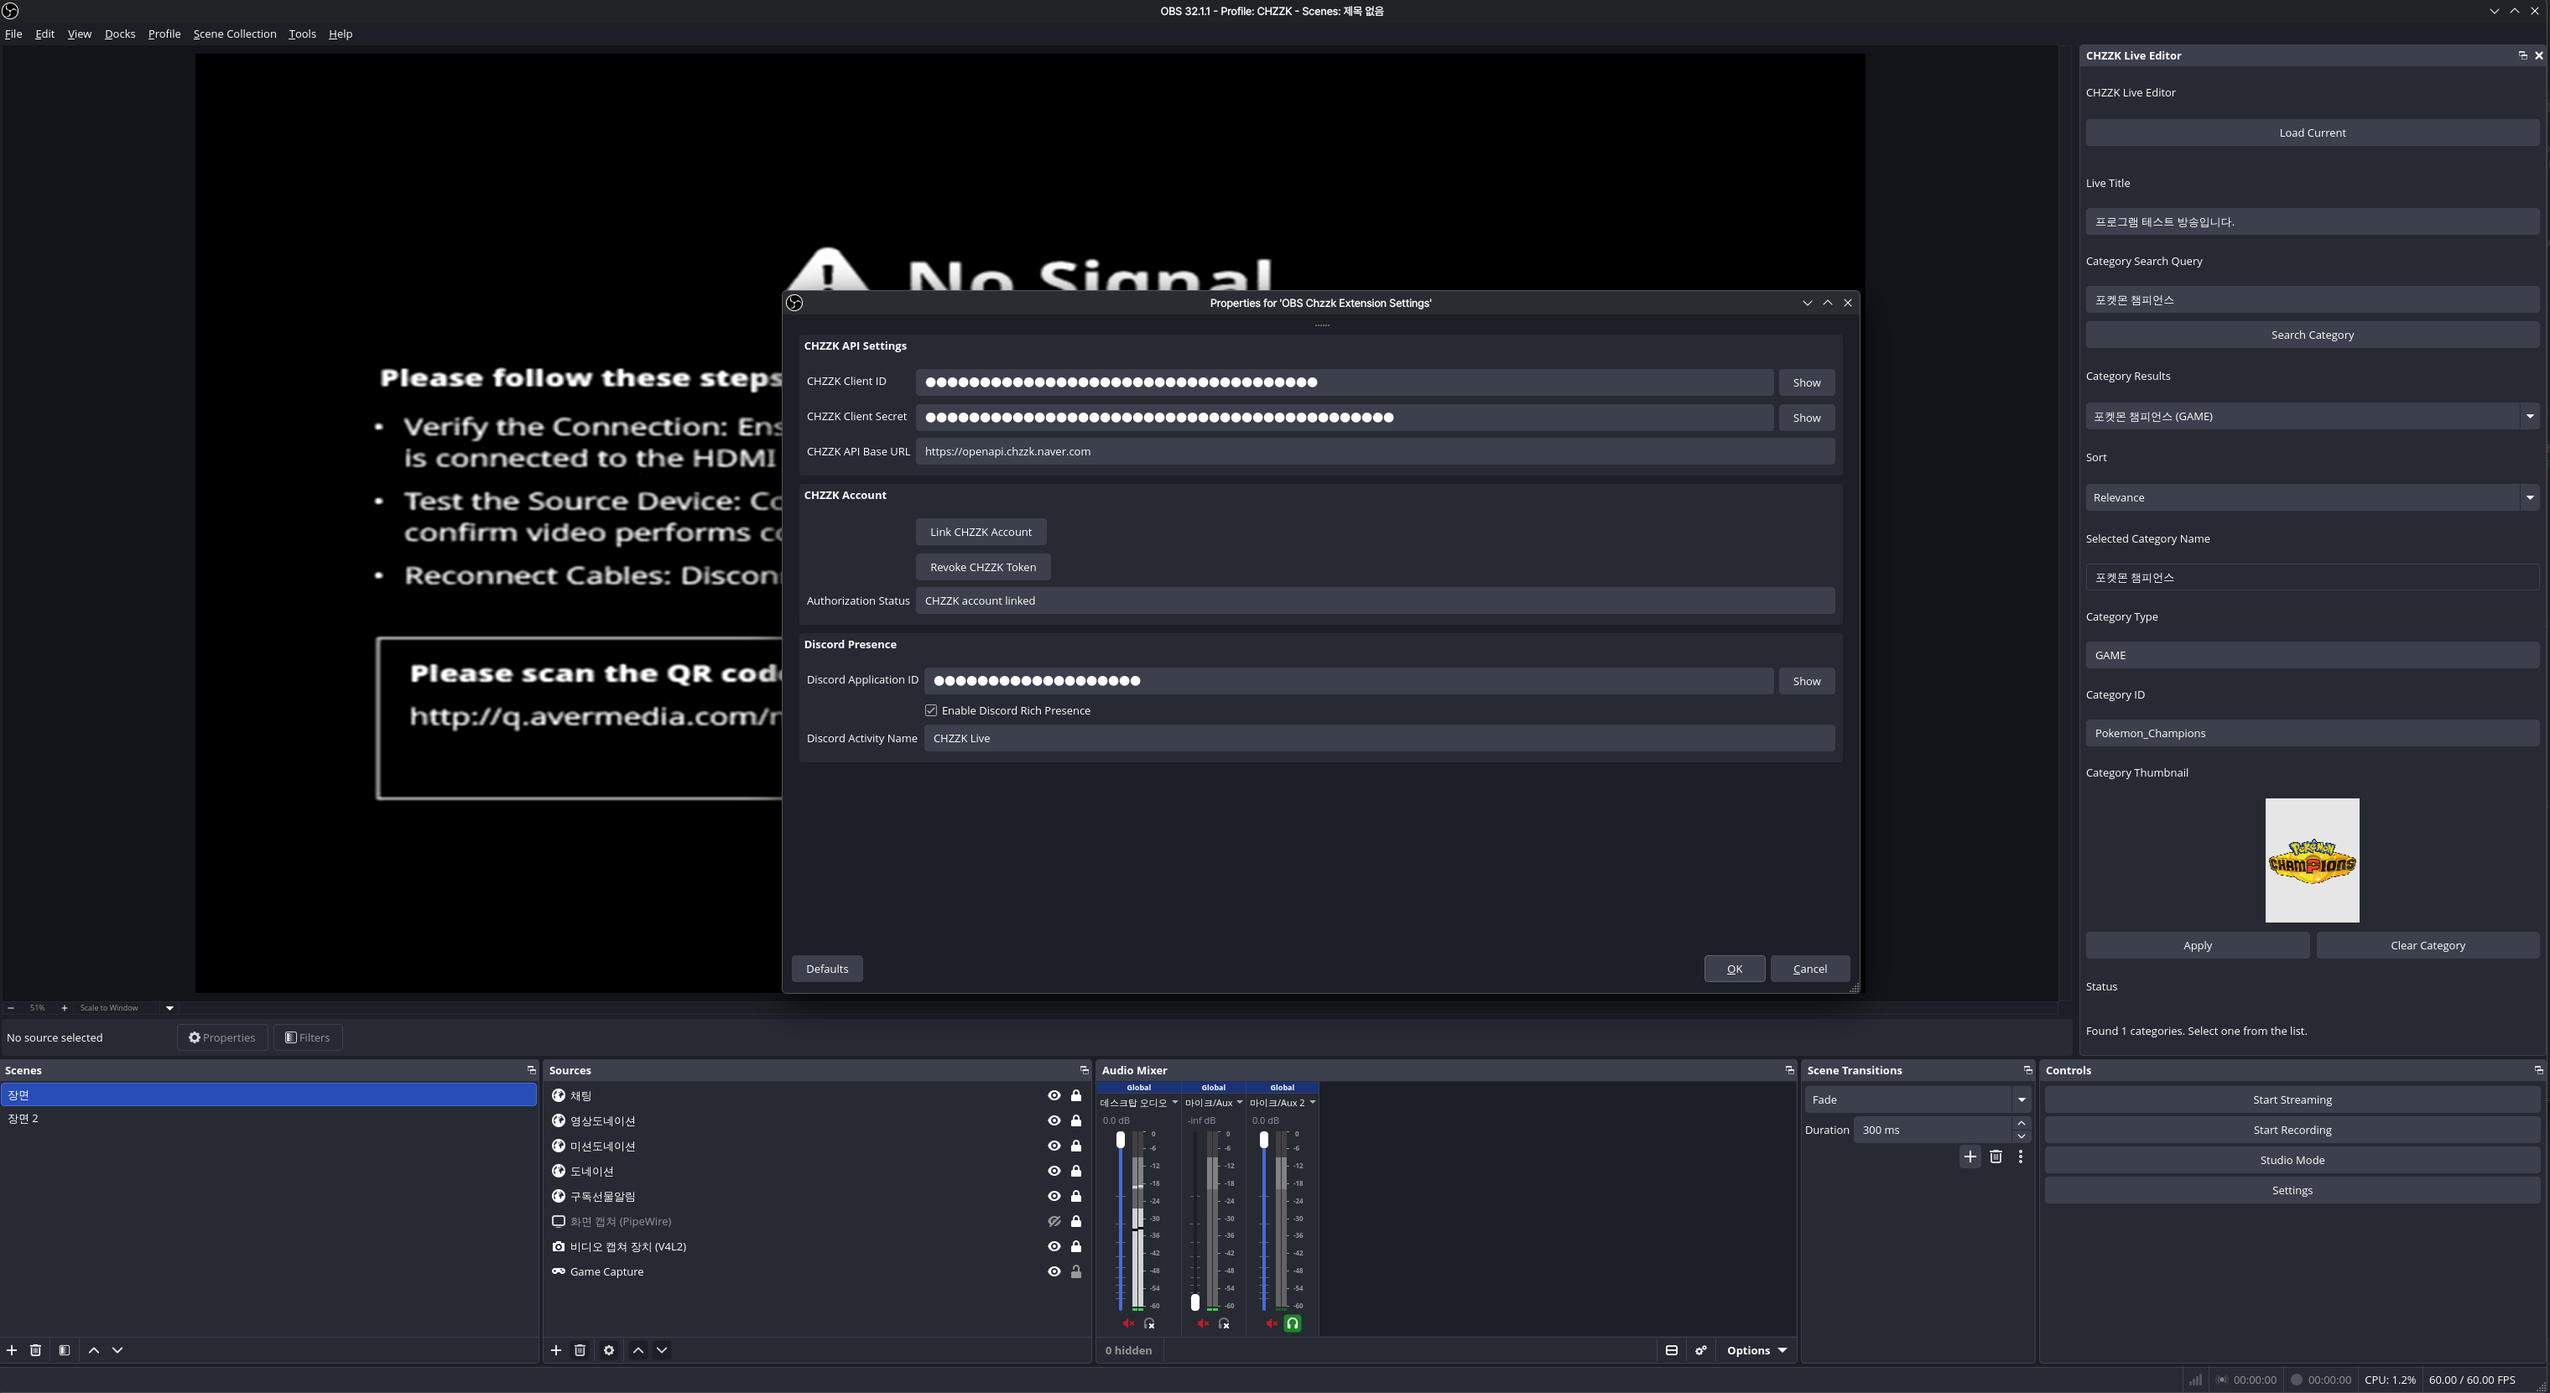
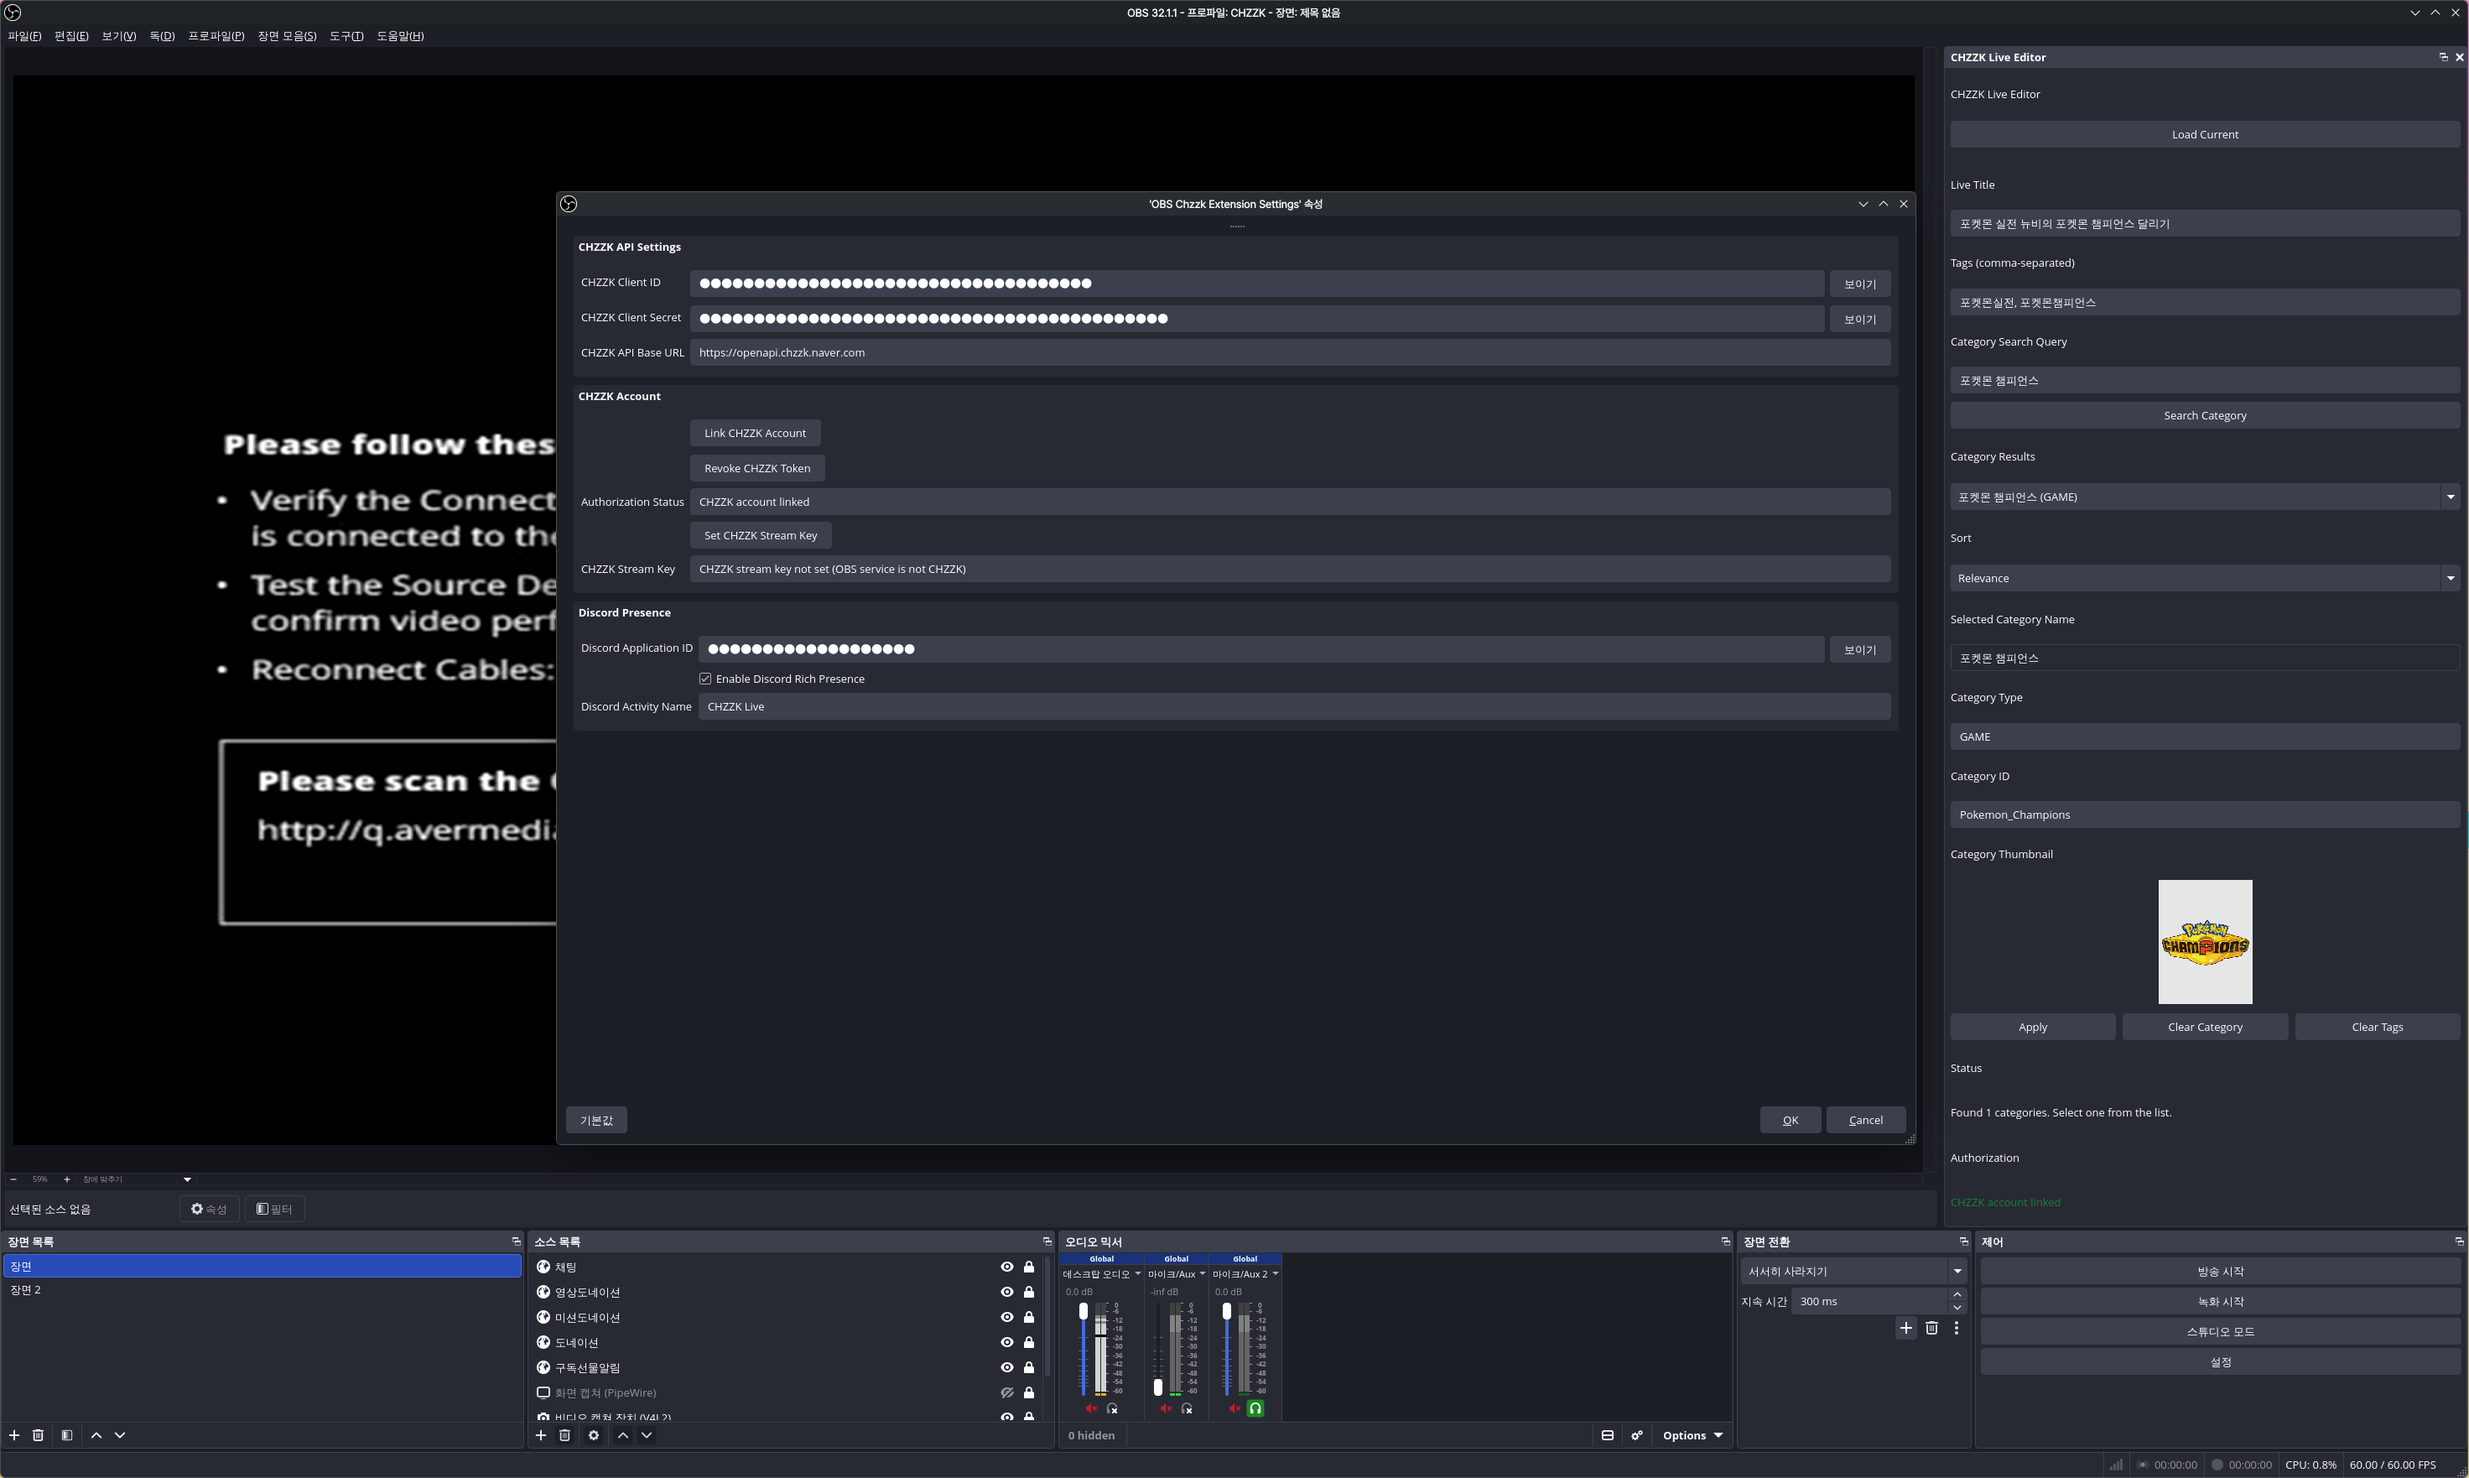
docs: sync README feature lists and refresh preview image
Add the new "Automatic CHZZK Stream Key Setup" feature entry to the
main README and synchronize the same feature item across localized
READMEs (Korean, Japanese, and Traditional Chinese) to keep docs
consistent.

Also update the preview image to reflect the current plugin UI.

diff --git a/README.ja.md b/README.ja.md
@@ -100,6 +100,7 @@ docker run --rm \
 ### 実装済み
 - Discord Rich Presence 連携
 - ライブ配信情報の編集（タイトル / カテゴリ / タグ / サムネイルプレビュー / 並び替え）
+- CHZZK ストリームキーの自動設定
 
 ## コントリビューション
 コントリビューションを歓迎します！

diff --git a/README.ko.md b/README.ko.md
@@ -100,6 +100,7 @@ docker run --rm \
 ### 구현됨
 - Discord Rich Presence 연동
 - 라이브 스트림 정보 편집 (제목 / 카테고리 / 태그 / 썸네일 미리보기 / 정렬)
+- CHZZK 스트림 키 자동 설정
 
 ## 기여
 기여를 환영합니다!

diff --git a/README.md b/README.md
@@ -100,6 +100,7 @@ docker run --rm \
 ### Implemented
 - Discord Rich Presence Integration
 - Edit Live Stream Information (Title / Category / Tags / Thumbnail Preview / Sort)
+- Automatic CHZZK Stream Key Setup
 
 ## Contributing
 Contributions are welcome!

diff --git a/README.zh-TW.md b/README.zh-TW.md
@@ -100,6 +100,7 @@ docker run --rm \
 ### 已實作
 - Discord Rich Presence 整合
 - 編輯直播資訊（標題 / 分類 / 標籤 / 縮圖預覽 / 排序）
+- CHZZK 串流金鑰自動設定
 
 ## 貢獻
 歡迎貢獻！
